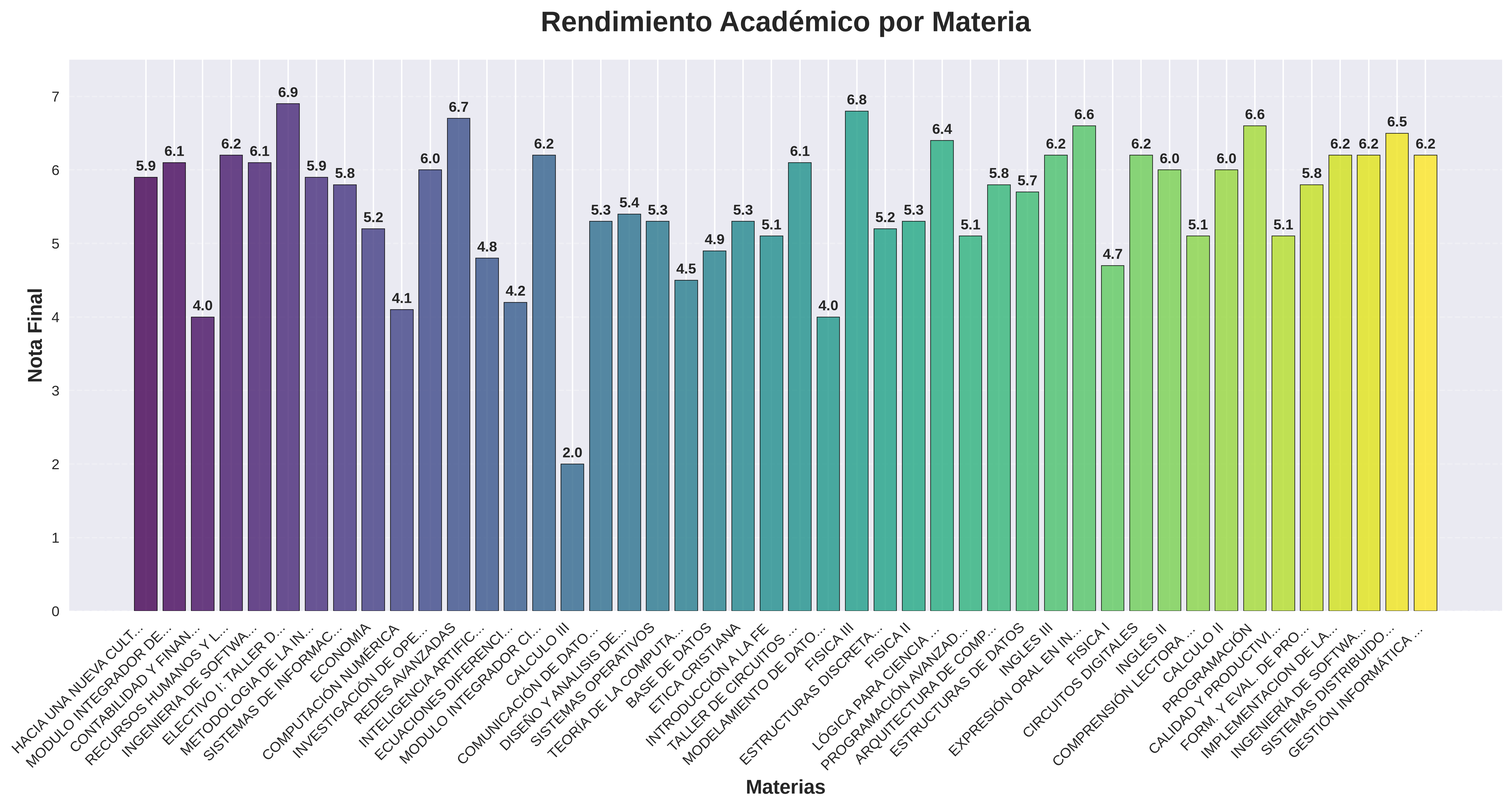
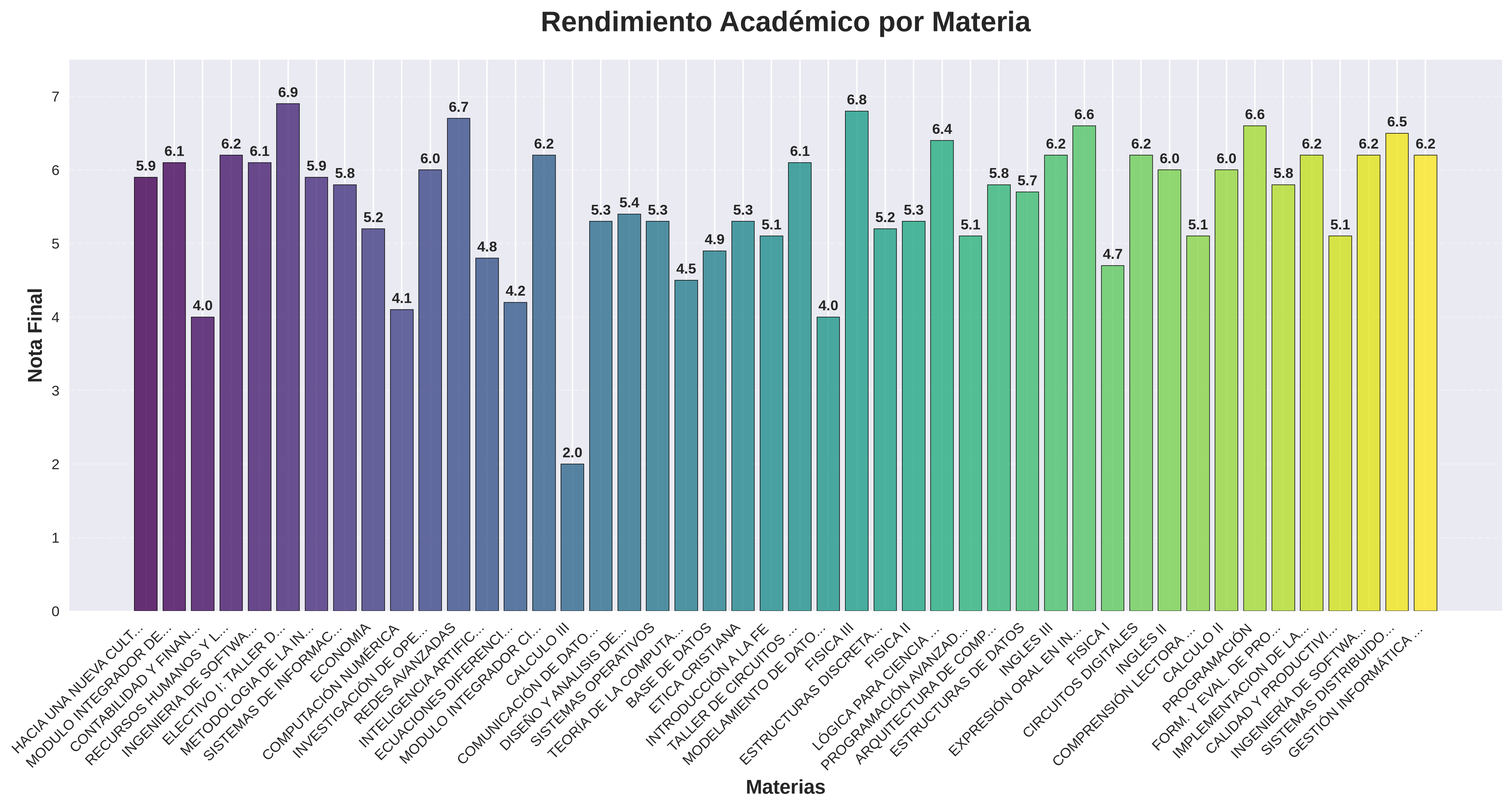
auto: actualizar notas y gráficos

Changed region(s): [[0.747, 0.7806, 0.8714, 0.9367], [0.8403, 0.1873, 0.9026, 0.3122]]

diff --git a/dashboard/ramos_con_detalles.js b/dashboard/ramos_con_detalles.js
@@ -1,2 +1,2 @@
 /* Archivo generado automáticamente por el scraper. No editar a mano. */
-window.ramosData = {"ramos_con_detalles": [{"nombre": "HACIA UNA NUEVA CULTURA EMPRESARIAL", "nota_final": 5.9, "id_curso": "01005356", "componentes": [{"nombre": "Parcial", "porcentaje": "30%", "nota": 6.0}, {"nombre": "Parcial", "porcentaje": "30%", "nota": 7.0}, {"nombre": "Parcial", "porcentaje": "40%", "nota": 5.0}], "semestre": "Semestre 2 (Pre) 2025"}, {"nombre": "MODULO INTEGRADOR DE LICENCIATURA (PRACT", "nota_final": 6.1, "id_curso": "01003110", "componentes": [{"nombre": "Parcial", "porcentaje": "30%", "nota": 5.8}, {"nombre": "Parcial", "porcentaje": "30%", "nota": 6.4}, {"nombre": "Parcial", "porcentaje": "40%", "nota": 6.2}], "semestre": "Semestre 2 (Pre) 2025"}, {"nombre": "CONTABILIDAD Y FINANZAS", "nota_final": 4.0, "id_curso": "01003111", "componentes": [{"nombre": "Parcial", "porcentaje": "20%", "nota": 4.0}, {"nombre": "Parcial", "porcentaje": "20%", "nota": 5.9}, {"nombre": "Parcial", "porcentaje": "30%", "nota": 2.5}, {"nombre": "Parcial", "porcentaje": "30%", "nota": 4.1}], "semestre": "Semestre 2 (Pre) 2025"}, {"nombre": "RECURSOS HUMANOS Y LEGISLACIÓN", "nota_final": 6.2, "id_curso": "01003120", "componentes": [{"nombre": "Parcial", "porcentaje": "20%", "nota": 5.4}, {"nombre": "Parcial", "porcentaje": "25%", "nota": 6.5}, {"nombre": "Parcial", "porcentaje": "25%", "nota": 6.0}, {"nombre": "Parcial", "porcentaje": "30%", "nota": 6.6}], "semestre": "Semestre 2 (Pre) 2025"}, {"nombre": "INGENIERIA DE SOFTWARE I", "nota_final": 6.1, "id_curso": "01003113", "componentes": [{"nombre": "Parcial", "porcentaje": "10%", "nota": 6.3}, {"nombre": "Parcial", "porcentaje": "10%", "nota": 6.2}, {"nombre": "Parcial", "porcentaje": "20%", "nota": 7.0}, {"nombre": "Parcial", "porcentaje": "30%", "nota": 5.3}, {"nombre": "Parcial", "porcentaje": "30%", "nota": 6.2}], "semestre": "Semestre 2 (Pre) 2025"}, {"nombre": "ELECTIVO I: TALLER DE UI Y UX", "nota_final": 6.9, "id_curso": "01011131", "componentes": [{"nombre": "Parcial", "porcentaje": "20%", "nota": 7.0}, {"nombre": "Parcial", "porcentaje": "40%", "nota": 6.9}, {"nombre": "Parcial", "porcentaje": "40%", "nota": 6.8}], "semestre": "Semestre 2 (Pre) 2025"}, {"nombre": "METODOLOGIA DE LA INVESTIGACIÓN", "nota_final": 5.9, "id_curso": "01003105", "componentes": [{"nombre": "Parcial", "porcentaje": "30%", "nota": 5.5}, {"nombre": "Parcial", "porcentaje": "30%", "nota": 6.7}, {"nombre": "Parcial", "porcentaje": "40%", "nota": 5.5}], "semestre": "Semestre 1 (Pre) 2025"}, {"nombre": "SISTEMAS DE INFORMACIÓN", "nota_final": 5.8, "id_curso": "01003108", "componentes": [{"nombre": "Parcial", "porcentaje": "30%", "nota": 6.3}, {"nombre": "Parcial", "porcentaje": "30%", "nota": 7.0}, {"nombre": "Parcial", "porcentaje": "40%", "nota": 4.4}], "semestre": "Semestre 1 (Pre) 2025"}, {"nombre": "ECONOMIA", "nota_final": 5.2, "id_curso": "01003106", "componentes": [{"nombre": "Parcial", "porcentaje": "25%", "nota": 6.6}, {"nombre": "Parcial", "porcentaje": "25%", "nota": 6.0}, {"nombre": "Parcial", "porcentaje": "25%", "nota": 7.0}, {"nombre": "Parcial", "porcentaje": "25%", "nota": 1.0}], "semestre": "Semestre 1 (Pre) 2025"}, {"nombre": "CALCULO I", "nota_final": null, "id_curso": "N/A", "componentes": [], "semestre": "Semestre 1 (Pre) 2021", "error": "Message: \nStacktrace:\n#0 0x55fedd4083da <unknown>\n#1 0x55fedcdea139 <unknown>\n#2 0x55fedce3e884 <unknown>\n#3 0x55fedce3ead1 <unknown>\n#4 0x55fedce89974 <unknown>\n#5 0x55fedce86b5c <unknown>\n#6 0x55fedce31e4f <unknown>\n#7 0x55fedce32c31 <unknown>\n#8 0x55fedd3ce9f7 <unknown>\n#9 0x55fedd3cd203 <unknown>\n#10 0x55fedd3b7f16 <unknown>\n#11 0x55fedd3cdd9a <unknown>\n#12 0x55fedd39feb0 <unknown>\n#13 0x55fedd3f4d58 <unknown>\n#14 0x55fedd3f4ef5 <unknown>\n#15 0x55fedd406f5e <unknown>\n#16 0x7fd13129caa4 <unknown>\n#17 0x7fd131329c6c <unknown>\n"}, {"nombre": "COMPUTACIÓN NUMÉRICA", "nota_final": 4.1, "id_curso": "01003100", "componentes": [{"nombre": "Parcial", "porcentaje": "15%", "nota": 6.5}, {"nombre": "Parcial", "porcentaje": "15%", "nota": 7.0}, {"nombre": "Parcial", "porcentaje": "20%", "nota": 6.8}, {"nombre": "Parcial", "porcentaje": "20%", "nota": 2.0}, {"nombre": "Parcial", "porcentaje": "30%", "nota": 1.0}], "semestre": "Semestre 2 (Pre) 2024"}, {"nombre": "INVESTIGACIÓN DE OPERACIONES", "nota_final": 6.0, "id_curso": "01003101", "componentes": [{"nombre": "Parcial", "porcentaje": "15%", "nota": 7.0}, {"nombre": "Parcial", "porcentaje": "15%", "nota": 5.3}, {"nombre": "Parcial", "porcentaje": "20%", "nota": 5.8}, {"nombre": "Parcial", "porcentaje": "20%", "nota": 6.9}, {"nombre": "Parcial", "porcentaje": "30%", "nota": 5.5}], "semestre": "Semestre 2 (Pre) 2024"}, {"nombre": "REDES AVANZADAS", "nota_final": 6.7, "id_curso": "01003114", "componentes": [{"nombre": "Parcial", "porcentaje": "45%", "nota": 6.7}, {"nombre": "Parcial", "porcentaje": "55%", "nota": 6.7}], "semestre": "Semestre 2 (Pre) 2024"}, {"nombre": "INTELIGENCIA ARTIFICIAL", "nota_final": 4.8, "id_curso": "01003112", "componentes": [{"nombre": "Parcial", "porcentaje": "10%", "nota": 5.9}, {"nombre": "Parcial", "porcentaje": "10%", "nota": 7.0}, {"nombre": "Parcial", "porcentaje": "20%", "nota": 5.3}, {"nombre": "Parcial", "porcentaje": "30%", "nota": 4.0}, {"nombre": "Parcial", "porcentaje": "30%", "nota": 4.0}], "semestre": "Semestre 2 (Pre) 2024"}, {"nombre": "ECUACIONES DIFERENCIALES", "nota_final": 4.2, "id_curso": "01003090", "componentes": [{"nombre": "Parcial", "porcentaje": "15%", "nota": 4.0}, {"nombre": "Parcial", "porcentaje": "15%", "nota": 5.0}, {"nombre": "Parcial", "porcentaje": "20%", "nota": 3.7}, {"nombre": "Parcial", "porcentaje": "20%", "nota": 4.3}, {"nombre": "Parcial", "porcentaje": "30%", "nota": 4.2}], "semestre": "Semestre 2 (Pre) 2024"}, {"nombre": "MODULO INTEGRADOR CIENCIAS BÁSICAS", "nota_final": 6.2, "id_curso": "01003094", "componentes": [{"nombre": "Parcial", "porcentaje": "40%", "nota": 6.1}, {"nombre": "Parcial", "porcentaje": "60%", "nota": 6.2}], "semestre": "Semestre 2 (Pre) 2024"}, {"nombre": "CALCULO III", "nota_final": 2.0, "id_curso": "01003085", "componentes": [{"nombre": "Parcial", "porcentaje": "20%", "nota": 2.2}, {"nombre": "Parcial", "porcentaje": "25%", "nota": 2.4}, {"nombre": "Parcial", "porcentaje": "25%", "nota": 2.2}, {"nombre": "Parcial", "porcentaje": "30%", "nota": 1.3}], "semestre": "Semestre 1 (Pre) 2023"}, {"nombre": "COMUNICACIÓN DE DATOS Y REDES", "nota_final": 5.3, "id_curso": "01003109", "componentes": [{"nombre": "Parcial", "porcentaje": "15%", "nota": 5.3}, {"nombre": "Parcial", "porcentaje": "15%", "nota": 5.3}, {"nombre": "Parcial", "porcentaje": "20%", "nota": 5.3}, {"nombre": "Parcial", "porcentaje": "20%", "nota": 5.3}, {"nombre": "Parcial", "porcentaje": "30%", "nota": 5.3}], "semestre": "Semestre 1 (Pre) 2024"}, {"nombre": "DISEÑO Y ANALISIS DE ALGORITMOS", "nota_final": 5.4, "id_curso": "01003107", "componentes": [{"nombre": "Parcial", "porcentaje": "30%", "nota": 6.0}, {"nombre": "Parcial", "porcentaje": "70%", "nota": 5.2}], "semestre": "Semestre 1 (Pre) 2024"}, {"nombre": "SISTEMAS OPERATIVOS", "nota_final": 5.3, "id_curso": "01003104", "componentes": [{"nombre": "Parcial", "porcentaje": "25%", "nota": 5.5}, {"nombre": "Parcial", "porcentaje": "35%", "nota": 6.1}, {"nombre": "Parcial", "porcentaje": "40%", "nota": 4.4}], "semestre": "Semestre 2 (Pre) 2023"}, {"nombre": "TEORÍA DE LA COMPUTACION", "nota_final": 4.5, "id_curso": "01003102", "componentes": [{"nombre": "Parcial", "porcentaje": "25%", "nota": 5.9}, {"nombre": "Parcial", "porcentaje": "25%", "nota": 6.7}, {"nombre": "Parcial", "porcentaje": "25%", "nota": 4.2}, {"nombre": "Parcial", "porcentaje": "25%", "nota": 1.0}], "semestre": "Semestre 2 (Pre) 2023"}, {"nombre": "BASE DE DATOS", "nota_final": 4.9, "id_curso": "01003103", "componentes": [{"nombre": "Parcial", "porcentaje": "30%", "nota": 3.6}, {"nombre": "Parcial", "porcentaje": "30%", "nota": 5.7}, {"nombre": "Parcial", "porcentaje": "40%", "nota": 5.3}], "semestre": "Semestre 2 (Pre) 2023"}, {"nombre": "ETICA CRISTIANA", "nota_final": 5.3, "id_curso": "01005880", "componentes": [{"nombre": "Parcial", "porcentaje": "30%", "nota": 5.0}, {"nombre": "Parcial", "porcentaje": "30%", "nota": 6.5}, {"nombre": "Parcial", "porcentaje": "40%", "nota": 4.5}], "semestre": "Semestre 2 (Pre) 2023"}, {"nombre": "INTRODUCCIÓN A LA FE", "nota_final": 5.1, "id_curso": "01005831", "componentes": [{"nombre": "Parcial", "porcentaje": "20%", "nota": 6.8}, {"nombre": "Parcial", "porcentaje": "25%", "nota": 6.6}, {"nombre": "Parcial", "porcentaje": "25%", "nota": 1.0}, {"nombre": "Parcial", "porcentaje": "30%", "nota": 6.0}], "semestre": "Semestre 1 (Pre) 2023"}, {"nombre": "TALLER DE CIRCUITOS DIGITALES", "nota_final": 6.1, "id_curso": "01003099", "componentes": [{"nombre": "Parcial", "porcentaje": "20%", "nota": 6.0}, {"nombre": "Parcial", "porcentaje": "20%", "nota": 6.6}, {"nombre": "Parcial", "porcentaje": "20%", "nota": 6.0}, {"nombre": "Parcial", "porcentaje": "40%", "nota": 6.0}], "semestre": "Semestre 1 (Pre) 2023"}, {"nombre": "MODELAMIENTO DE DATOS", "nota_final": 4.0, "id_curso": "01003098", "componentes": [{"nombre": "Parcial", "porcentaje": "20%", "nota": 3.8}, {"nombre": "Parcial", "porcentaje": "40%", "nota": 5.5}, {"nombre": "Parcial", "porcentaje": "40%", "nota": 2.7}], "semestre": "Semestre 1 (Pre) 2023"}, {"nombre": "FISICA III", "nota_final": 6.8, "id_curso": "01003095", "componentes": [{"nombre": "Parcial", "porcentaje": "20%", "nota": 6.5}, {"nombre": "Parcial", "porcentaje": "20%", "nota": 7.0}, {"nombre": "Parcial", "porcentaje": "30%", "nota": 6.8}, {"nombre": "Parcial", "porcentaje": "30%", "nota": 6.8}], "semestre": "Semestre 1 (Pre) 2023"}, {"nombre": "ESTRUCTURAS DISCRETAS", "nota_final": 5.2, "id_curso": "01003097", "componentes": [{"nombre": "Parcial", "porcentaje": "15%", "nota": 4.8}, {"nombre": "Parcial", "porcentaje": "15%", "nota": 4.8}, {"nombre": "Parcial", "porcentaje": "20%", "nota": 4.8}, {"nombre": "Parcial", "porcentaje": "20%", "nota": 5.8}, {"nombre": "Parcial", "porcentaje": "30%", "nota": 5.4}], "semestre": "Semestre 1 (Pre) 2023"}, {"nombre": "FISICA II", "nota_final": 5.3, "id_curso": "01003089", "componentes": [{"nombre": "Parcial", "porcentaje": "30%", "nota": 5.3}, {"nombre": "Parcial", "porcentaje": "35%", "nota": 4.1}, {"nombre": "Parcial", "porcentaje": "35%", "nota": 6.4}], "semestre": "Semestre 2 (Pre) 2022"}, {"nombre": "LÓGICA PARA CIENCIA DE LA COMPUTACIÓN", "nota_final": 6.4, "id_curso": "01003092", "componentes": [{"nombre": "Parcial", "porcentaje": "30%", "nota": 5.6}, {"nombre": "Parcial", "porcentaje": "35%", "nota": 7.0}, {"nombre": "Parcial", "porcentaje": "35%", "nota": 6.6}], "semestre": "Semestre 2 (Pre) 2022"}, {"nombre": "PROGRAMACIÓN AVANZADA", "nota_final": 5.1, "id_curso": "01003091", "componentes": [{"nombre": "Parcial", "porcentaje": "20%", "nota": 4.0}, {"nombre": "Parcial", "porcentaje": "20%", "nota": 7.0}, {"nombre": "Parcial", "porcentaje": "30%", "nota": 4.6}, {"nombre": "Parcial", "porcentaje": "30%", "nota": 5.1}], "semestre": "Semestre 2 (Pre) 2022"}, {"nombre": "ARQUITECTURA DE COMPUTADORES", "nota_final": 5.8, "id_curso": "01003093", "componentes": [{"nombre": "Parcial", "porcentaje": "15%", "nota": 2.9}, {"nombre": "Parcial", "porcentaje": "20%", "nota": 7.0}, {"nombre": "Parcial", "porcentaje": "20%", "nota": 7.0}, {"nombre": "Parcial", "porcentaje": "20%", "nota": 5.9}, {"nombre": "Parcial", "porcentaje": "25%", "nota": 5.7}], "semestre": "Semestre 2 (Pre) 2022"}, {"nombre": "ALGEBRA II", "nota_final": null, "id_curso": "01003080", "componentes": [{"nombre": "Parcial", "porcentaje": "15%", "nota": null}, {"nombre": "Parcial", "porcentaje": "15%", "nota": null}, {"nombre": "Parcial", "porcentaje": "20%", "nota": null}, {"nombre": "Parcial", "porcentaje": "20%", "nota": null}, {"nombre": "Parcial", "porcentaje": "30%", "nota": null}], "semestre": "Semestre 2 (Pre) 2021"}, {"nombre": "ESTRUCTURAS DE DATOS", "nota_final": 5.7, "id_curso": "01003086", "componentes": [{"nombre": "Parcial", "porcentaje": "20%", "nota": 3.8}, {"nombre": "Parcial", "porcentaje": "40%", "nota": 6.5}, {"nombre": "Parcial", "porcentaje": "40%", "nota": 5.8}], "semestre": "Semestre 1 (Pre) 2022"}, {"nombre": "INGLES III", "nota_final": 6.2, "id_curso": "01005809", "componentes": [{"nombre": "Parcial", "porcentaje": "50%", "nota": 6.7}, {"nombre": "Parcial", "porcentaje": "50%", "nota": 5.6}], "semestre": "Semestre 1 (Pre) 2022"}, {"nombre": "EXPRESIÓN ORAL EN INGENIERIA", "nota_final": 6.6, "id_curso": "01003087", "componentes": [{"nombre": "Parcial", "porcentaje": "25%", "nota": 7.0}, {"nombre": "Parcial", "porcentaje": "25%", "nota": 7.0}, {"nombre": "Parcial", "porcentaje": "25%", "nota": 5.5}, {"nombre": "Parcial", "porcentaje": "25%", "nota": 6.8}], "semestre": "Semestre 1 (Pre) 2022"}, {"nombre": "FISICA I", "nota_final": 4.7, "id_curso": "01003084", "componentes": [{"nombre": "Parcial", "porcentaje": "15%", "nota": 6.2}, {"nombre": "Parcial", "porcentaje": "15%", "nota": 6.3}, {"nombre": "Parcial", "porcentaje": "20%", "nota": 1.3}, {"nombre": "Parcial", "porcentaje": "20%", "nota": 6.0}, {"nombre": "Parcial", "porcentaje": "30%", "nota": 4.6}], "semestre": "Semestre 1 (Pre) 2022"}, {"nombre": "CIRCUITOS DIGITALES", "nota_final": 6.2, "id_curso": "01003088", "componentes": [{"nombre": "Parcial", "porcentaje": "25%", "nota": 5.3}, {"nombre": "Parcial", "porcentaje": "25%", "nota": 7.0}, {"nombre": "Parcial", "porcentaje": "25%", "nota": 6.3}, {"nombre": "Parcial", "porcentaje": "25%", "nota": 6.2}], "semestre": "Semestre 1 (Pre) 2022"}, {"nombre": "INGLÉS II", "nota_final": 6.0, "id_curso": "01005759", "componentes": [{"nombre": "Parcial", "porcentaje": "50%", "nota": 6.0}, {"nombre": "Parcial", "porcentaje": "50%", "nota": 6.0}], "semestre": "Semestre 2 (Pre) 2021"}, {"nombre": "COMPRENSIÓN LECTORA Y PROD. DE TEXTOS", "nota_final": 5.1, "id_curso": "01003083", "componentes": [{"nombre": "Parcial", "porcentaje": "25%", "nota": 5.3}, {"nombre": "Parcial", "porcentaje": "25%", "nota": 5.5}, {"nombre": "Parcial", "porcentaje": "25%", "nota": 3.0}, {"nombre": "Parcial", "porcentaje": "25%", "nota": 6.5}], "semestre": "Semestre 2 (Pre) 2021"}, {"nombre": "CALCULO II", "nota_final": 6.0, "id_curso": "01003081", "componentes": [{"nombre": "Parcial", "porcentaje": "20%", "nota": 6.6}, {"nombre": "Parcial", "porcentaje": "20%", "nota": 5.5}, {"nombre": "Parcial", "porcentaje": "30%", "nota": 5.9}, {"nombre": "Parcial", "porcentaje": "30%", "nota": 6.0}], "semestre": "Semestre 2 (Pre) 2021"}, {"nombre": "PROGRAMACIÓN", "nota_final": 6.6, "id_curso": "01003082", "componentes": [{"nombre": "Parcial", "porcentaje": "20%", "nota": 7.0}, {"nombre": "Parcial", "porcentaje": "20%", "nota": 7.0}, {"nombre": "Parcial", "porcentaje": "20%", "nota": 5.8}, {"nombre": "Parcial", "porcentaje": "40%", "nota": 6.5}], "semestre": "Semestre 2 (Pre) 2021"}, {"nombre": "CALIDAD Y PRODUCTIVIDAD DE SOFTWARE", "nota_final": 5.1, "id_curso": "01003117", "componentes": [{"nombre": "Parcial", "porcentaje": "20%", "nota": 5.0}, {"nombre": "Parcial", "porcentaje": "25%", "nota": 3.3}, {"nombre": "Parcial", "porcentaje": "25%", "nota": 5.6}, {"nombre": "Parcial", "porcentaje": "30%", "nota": 6.1}], "semestre": "Semestre 1 (Pre) 2026"}, {"nombre": "FORM. Y EVAL. DE PROYECTOS INFORMÁTICOS", "nota_final": 5.8, "id_curso": "01003115", "componentes": [{"nombre": "Parcial", "porcentaje": "25%", "nota": 3.6}, {"nombre": "Parcial", "porcentaje": "35%", "nota": 6.7}, {"nombre": "Parcial", "porcentaje": "40%", "nota": 6.3}], "semestre": "Semestre 1 (Pre) 2026"}, {"nombre": "IMPLEMENTACION DE LA R.S.E. Y NUEVOS DES", "nota_final": 6.2, "id_curso": "01005358", "componentes": [{"nombre": "Parcial", "porcentaje": "30%", "nota": 7.0}, {"nombre": "Parcial", "porcentaje": "30%", "nota": 5.2}, {"nombre": "Parcial", "porcentaje": "40%", "nota": 6.4}], "semestre": "Semestre 1 (Pre) 2026"}, {"nombre": "INGENIERÍA DE SOFTWARE II", "nota_final": 6.2, "id_curso": "01003118", "componentes": [{"nombre": "Parcial", "porcentaje": "20%", "nota": 6.5}, {"nombre": "Parcial", "porcentaje": "20%", "nota": 6.3}, {"nombre": "Parcial", "porcentaje": "30%", "nota": 6.0}, {"nombre": "Parcial", "porcentaje": "30%", "nota": 6.2}], "semestre": "Semestre 1 (Pre) 2026"}, {"nombre": "SISTEMAS DISTRIBUIDOS", "nota_final": 6.5, "id_curso": "01003119", "componentes": [{"nombre": "Parcial", "porcentaje": "30%", "nota": 5.2}, {"nombre": "Parcial", "porcentaje": "30%", "nota": 7.0}, {"nombre": "Parcial", "porcentaje": "40%", "nota": 7.0}], "semestre": "Semestre 1 (Pre) 2026"}, {"nombre": "GESTIÓN INFORMÁTICA I", "nota_final": 6.2, "id_curso": "01003116", "componentes": [{"nombre": "Parcial", "porcentaje": "20%", "nota": 6.8}, {"nombre": "Parcial", "porcentaje": "20%", "nota": 5.2}, {"nombre": "Parcial", "porcentaje": "30%", "nota": 5.8}, {"nombre": "Parcial", "porcentaje": "30%", "nota": 7.0}], "semestre": "Semestre 1 (Pre) 2026"}]};
+window.ramosData = {"ramos_con_detalles": [{"nombre": "HACIA UNA NUEVA CULTURA EMPRESARIAL", "nota_final": 5.9, "id_curso": "01005356", "componentes": [{"nombre": "Parcial", "porcentaje": "30%", "nota": 6.0}, {"nombre": "Parcial", "porcentaje": "30%", "nota": 7.0}, {"nombre": "Parcial", "porcentaje": "40%", "nota": 5.0}], "semestre": "Semestre 2 (Pre) 2025"}, {"nombre": "MODULO INTEGRADOR DE LICENCIATURA (PRACT", "nota_final": 6.1, "id_curso": "01003110", "componentes": [{"nombre": "Parcial", "porcentaje": "30%", "nota": 5.8}, {"nombre": "Parcial", "porcentaje": "30%", "nota": 6.4}, {"nombre": "Parcial", "porcentaje": "40%", "nota": 6.2}], "semestre": "Semestre 2 (Pre) 2025"}, {"nombre": "CONTABILIDAD Y FINANZAS", "nota_final": 4.0, "id_curso": "01003111", "componentes": [{"nombre": "Parcial", "porcentaje": "20%", "nota": 4.0}, {"nombre": "Parcial", "porcentaje": "20%", "nota": 5.9}, {"nombre": "Parcial", "porcentaje": "30%", "nota": 2.5}, {"nombre": "Parcial", "porcentaje": "30%", "nota": 4.1}], "semestre": "Semestre 2 (Pre) 2025"}, {"nombre": "RECURSOS HUMANOS Y LEGISLACIÓN", "nota_final": 6.2, "id_curso": "01003120", "componentes": [{"nombre": "Parcial", "porcentaje": "20%", "nota": 5.4}, {"nombre": "Parcial", "porcentaje": "25%", "nota": 6.5}, {"nombre": "Parcial", "porcentaje": "25%", "nota": 6.0}, {"nombre": "Parcial", "porcentaje": "30%", "nota": 6.6}], "semestre": "Semestre 2 (Pre) 2025"}, {"nombre": "INGENIERIA DE SOFTWARE I", "nota_final": 6.1, "id_curso": "01003113", "componentes": [{"nombre": "Parcial", "porcentaje": "10%", "nota": 6.3}, {"nombre": "Parcial", "porcentaje": "10%", "nota": 6.2}, {"nombre": "Parcial", "porcentaje": "20%", "nota": 7.0}, {"nombre": "Parcial", "porcentaje": "30%", "nota": 5.3}, {"nombre": "Parcial", "porcentaje": "30%", "nota": 6.2}], "semestre": "Semestre 2 (Pre) 2025"}, {"nombre": "ELECTIVO I: TALLER DE UI Y UX", "nota_final": 6.9, "id_curso": "01011131", "componentes": [{"nombre": "Parcial", "porcentaje": "20%", "nota": 7.0}, {"nombre": "Parcial", "porcentaje": "40%", "nota": 6.9}, {"nombre": "Parcial", "porcentaje": "40%", "nota": 6.8}], "semestre": "Semestre 2 (Pre) 2025"}, {"nombre": "METODOLOGIA DE LA INVESTIGACIÓN", "nota_final": 5.9, "id_curso": "01003105", "componentes": [{"nombre": "Parcial", "porcentaje": "30%", "nota": 5.5}, {"nombre": "Parcial", "porcentaje": "30%", "nota": 6.7}, {"nombre": "Parcial", "porcentaje": "40%", "nota": 5.5}], "semestre": "Semestre 1 (Pre) 2025"}, {"nombre": "SISTEMAS DE INFORMACIÓN", "nota_final": 5.8, "id_curso": "01003108", "componentes": [{"nombre": "Parcial", "porcentaje": "30%", "nota": 6.3}, {"nombre": "Parcial", "porcentaje": "30%", "nota": 7.0}, {"nombre": "Parcial", "porcentaje": "40%", "nota": 4.4}], "semestre": "Semestre 1 (Pre) 2025"}, {"nombre": "ECONOMIA", "nota_final": 5.2, "id_curso": "01003106", "componentes": [{"nombre": "Parcial", "porcentaje": "25%", "nota": 6.6}, {"nombre": "Parcial", "porcentaje": "25%", "nota": 6.0}, {"nombre": "Parcial", "porcentaje": "25%", "nota": 7.0}, {"nombre": "Parcial", "porcentaje": "25%", "nota": 1.0}], "semestre": "Semestre 1 (Pre) 2025"}, {"nombre": "CALCULO I", "nota_final": null, "id_curso": "N/A", "componentes": [], "semestre": "Semestre 1 (Pre) 2021", "error": "Message: \nStacktrace:\n#0 0x55fedd4083da <unknown>\n#1 0x55fedcdea139 <unknown>\n#2 0x55fedce3e884 <unknown>\n#3 0x55fedce3ead1 <unknown>\n#4 0x55fedce89974 <unknown>\n#5 0x55fedce86b5c <unknown>\n#6 0x55fedce31e4f <unknown>\n#7 0x55fedce32c31 <unknown>\n#8 0x55fedd3ce9f7 <unknown>\n#9 0x55fedd3cd203 <unknown>\n#10 0x55fedd3b7f16 <unknown>\n#11 0x55fedd3cdd9a <unknown>\n#12 0x55fedd39feb0 <unknown>\n#13 0x55fedd3f4d58 <unknown>\n#14 0x55fedd3f4ef5 <unknown>\n#15 0x55fedd406f5e <unknown>\n#16 0x7fd13129caa4 <unknown>\n#17 0x7fd131329c6c <unknown>\n"}, {"nombre": "COMPUTACIÓN NUMÉRICA", "nota_final": 4.1, "id_curso": "01003100", "componentes": [{"nombre": "Parcial", "porcentaje": "15%", "nota": 6.5}, {"nombre": "Parcial", "porcentaje": "15%", "nota": 7.0}, {"nombre": "Parcial", "porcentaje": "20%", "nota": 6.8}, {"nombre": "Parcial", "porcentaje": "20%", "nota": 2.0}, {"nombre": "Parcial", "porcentaje": "30%", "nota": 1.0}], "semestre": "Semestre 2 (Pre) 2024"}, {"nombre": "INVESTIGACIÓN DE OPERACIONES", "nota_final": 6.0, "id_curso": "01003101", "componentes": [{"nombre": "Parcial", "porcentaje": "15%", "nota": 7.0}, {"nombre": "Parcial", "porcentaje": "15%", "nota": 5.3}, {"nombre": "Parcial", "porcentaje": "20%", "nota": 5.8}, {"nombre": "Parcial", "porcentaje": "20%", "nota": 6.9}, {"nombre": "Parcial", "porcentaje": "30%", "nota": 5.5}], "semestre": "Semestre 2 (Pre) 2024"}, {"nombre": "REDES AVANZADAS", "nota_final": 6.7, "id_curso": "01003114", "componentes": [{"nombre": "Parcial", "porcentaje": "45%", "nota": 6.7}, {"nombre": "Parcial", "porcentaje": "55%", "nota": 6.7}], "semestre": "Semestre 2 (Pre) 2024"}, {"nombre": "INTELIGENCIA ARTIFICIAL", "nota_final": 4.8, "id_curso": "01003112", "componentes": [{"nombre": "Parcial", "porcentaje": "10%", "nota": 5.9}, {"nombre": "Parcial", "porcentaje": "10%", "nota": 7.0}, {"nombre": "Parcial", "porcentaje": "20%", "nota": 5.3}, {"nombre": "Parcial", "porcentaje": "30%", "nota": 4.0}, {"nombre": "Parcial", "porcentaje": "30%", "nota": 4.0}], "semestre": "Semestre 2 (Pre) 2024"}, {"nombre": "ECUACIONES DIFERENCIALES", "nota_final": 4.2, "id_curso": "01003090", "componentes": [{"nombre": "Parcial", "porcentaje": "15%", "nota": 4.0}, {"nombre": "Parcial", "porcentaje": "15%", "nota": 5.0}, {"nombre": "Parcial", "porcentaje": "20%", "nota": 3.7}, {"nombre": "Parcial", "porcentaje": "20%", "nota": 4.3}, {"nombre": "Parcial", "porcentaje": "30%", "nota": 4.2}], "semestre": "Semestre 2 (Pre) 2024"}, {"nombre": "MODULO INTEGRADOR CIENCIAS BÁSICAS", "nota_final": 6.2, "id_curso": "01003094", "componentes": [{"nombre": "Parcial", "porcentaje": "40%", "nota": 6.1}, {"nombre": "Parcial", "porcentaje": "60%", "nota": 6.2}], "semestre": "Semestre 2 (Pre) 2024"}, {"nombre": "CALCULO III", "nota_final": 2.0, "id_curso": "01003085", "componentes": [{"nombre": "Parcial", "porcentaje": "20%", "nota": 2.2}, {"nombre": "Parcial", "porcentaje": "25%", "nota": 2.4}, {"nombre": "Parcial", "porcentaje": "25%", "nota": 2.2}, {"nombre": "Parcial", "porcentaje": "30%", "nota": 1.3}], "semestre": "Semestre 1 (Pre) 2023"}, {"nombre": "COMUNICACIÓN DE DATOS Y REDES", "nota_final": 5.3, "id_curso": "01003109", "componentes": [{"nombre": "Parcial", "porcentaje": "15%", "nota": 5.3}, {"nombre": "Parcial", "porcentaje": "15%", "nota": 5.3}, {"nombre": "Parcial", "porcentaje": "20%", "nota": 5.3}, {"nombre": "Parcial", "porcentaje": "20%", "nota": 5.3}, {"nombre": "Parcial", "porcentaje": "30%", "nota": 5.3}], "semestre": "Semestre 1 (Pre) 2024"}, {"nombre": "DISEÑO Y ANALISIS DE ALGORITMOS", "nota_final": 5.4, "id_curso": "01003107", "componentes": [{"nombre": "Parcial", "porcentaje": "30%", "nota": 6.0}, {"nombre": "Parcial", "porcentaje": "70%", "nota": 5.2}], "semestre": "Semestre 1 (Pre) 2024"}, {"nombre": "SISTEMAS OPERATIVOS", "nota_final": 5.3, "id_curso": "01003104", "componentes": [{"nombre": "Parcial", "porcentaje": "25%", "nota": 5.5}, {"nombre": "Parcial", "porcentaje": "35%", "nota": 6.1}, {"nombre": "Parcial", "porcentaje": "40%", "nota": 4.4}], "semestre": "Semestre 2 (Pre) 2023"}, {"nombre": "TEORÍA DE LA COMPUTACION", "nota_final": 4.5, "id_curso": "01003102", "componentes": [{"nombre": "Parcial", "porcentaje": "25%", "nota": 5.9}, {"nombre": "Parcial", "porcentaje": "25%", "nota": 6.7}, {"nombre": "Parcial", "porcentaje": "25%", "nota": 4.2}, {"nombre": "Parcial", "porcentaje": "25%", "nota": 1.0}], "semestre": "Semestre 2 (Pre) 2023"}, {"nombre": "BASE DE DATOS", "nota_final": 4.9, "id_curso": "01003103", "componentes": [{"nombre": "Parcial", "porcentaje": "30%", "nota": 3.6}, {"nombre": "Parcial", "porcentaje": "30%", "nota": 5.7}, {"nombre": "Parcial", "porcentaje": "40%", "nota": 5.3}], "semestre": "Semestre 2 (Pre) 2023"}, {"nombre": "ETICA CRISTIANA", "nota_final": 5.3, "id_curso": "01005880", "componentes": [{"nombre": "Parcial", "porcentaje": "30%", "nota": 5.0}, {"nombre": "Parcial", "porcentaje": "30%", "nota": 6.5}, {"nombre": "Parcial", "porcentaje": "40%", "nota": 4.5}], "semestre": "Semestre 2 (Pre) 2023"}, {"nombre": "INTRODUCCIÓN A LA FE", "nota_final": 5.1, "id_curso": "01005831", "componentes": [{"nombre": "Parcial", "porcentaje": "20%", "nota": 6.8}, {"nombre": "Parcial", "porcentaje": "25%", "nota": 6.6}, {"nombre": "Parcial", "porcentaje": "25%", "nota": 1.0}, {"nombre": "Parcial", "porcentaje": "30%", "nota": 6.0}], "semestre": "Semestre 1 (Pre) 2023"}, {"nombre": "TALLER DE CIRCUITOS DIGITALES", "nota_final": 6.1, "id_curso": "01003099", "componentes": [{"nombre": "Parcial", "porcentaje": "20%", "nota": 6.0}, {"nombre": "Parcial", "porcentaje": "20%", "nota": 6.6}, {"nombre": "Parcial", "porcentaje": "20%", "nota": 6.0}, {"nombre": "Parcial", "porcentaje": "40%", "nota": 6.0}], "semestre": "Semestre 1 (Pre) 2023"}, {"nombre": "MODELAMIENTO DE DATOS", "nota_final": 4.0, "id_curso": "01003098", "componentes": [{"nombre": "Parcial", "porcentaje": "20%", "nota": 3.8}, {"nombre": "Parcial", "porcentaje": "40%", "nota": 5.5}, {"nombre": "Parcial", "porcentaje": "40%", "nota": 2.7}], "semestre": "Semestre 1 (Pre) 2023"}, {"nombre": "FISICA III", "nota_final": 6.8, "id_curso": "01003095", "componentes": [{"nombre": "Parcial", "porcentaje": "20%", "nota": 6.5}, {"nombre": "Parcial", "porcentaje": "20%", "nota": 7.0}, {"nombre": "Parcial", "porcentaje": "30%", "nota": 6.8}, {"nombre": "Parcial", "porcentaje": "30%", "nota": 6.8}], "semestre": "Semestre 1 (Pre) 2023"}, {"nombre": "ESTRUCTURAS DISCRETAS", "nota_final": 5.2, "id_curso": "01003097", "componentes": [{"nombre": "Parcial", "porcentaje": "15%", "nota": 4.8}, {"nombre": "Parcial", "porcentaje": "15%", "nota": 4.8}, {"nombre": "Parcial", "porcentaje": "20%", "nota": 4.8}, {"nombre": "Parcial", "porcentaje": "20%", "nota": 5.8}, {"nombre": "Parcial", "porcentaje": "30%", "nota": 5.4}], "semestre": "Semestre 1 (Pre) 2023"}, {"nombre": "FISICA II", "nota_final": 5.3, "id_curso": "01003089", "componentes": [{"nombre": "Parcial", "porcentaje": "30%", "nota": 5.3}, {"nombre": "Parcial", "porcentaje": "35%", "nota": 4.1}, {"nombre": "Parcial", "porcentaje": "35%", "nota": 6.4}], "semestre": "Semestre 2 (Pre) 2022"}, {"nombre": "LÓGICA PARA CIENCIA DE LA COMPUTACIÓN", "nota_final": 6.4, "id_curso": "01003092", "componentes": [{"nombre": "Parcial", "porcentaje": "30%", "nota": 5.6}, {"nombre": "Parcial", "porcentaje": "35%", "nota": 7.0}, {"nombre": "Parcial", "porcentaje": "35%", "nota": 6.6}], "semestre": "Semestre 2 (Pre) 2022"}, {"nombre": "PROGRAMACIÓN AVANZADA", "nota_final": 5.1, "id_curso": "01003091", "componentes": [{"nombre": "Parcial", "porcentaje": "20%", "nota": 4.0}, {"nombre": "Parcial", "porcentaje": "20%", "nota": 7.0}, {"nombre": "Parcial", "porcentaje": "30%", "nota": 4.6}, {"nombre": "Parcial", "porcentaje": "30%", "nota": 5.1}], "semestre": "Semestre 2 (Pre) 2022"}, {"nombre": "ARQUITECTURA DE COMPUTADORES", "nota_final": 5.8, "id_curso": "01003093", "componentes": [{"nombre": "Parcial", "porcentaje": "15%", "nota": 2.9}, {"nombre": "Parcial", "porcentaje": "20%", "nota": 7.0}, {"nombre": "Parcial", "porcentaje": "20%", "nota": 7.0}, {"nombre": "Parcial", "porcentaje": "20%", "nota": 5.9}, {"nombre": "Parcial", "porcentaje": "25%", "nota": 5.7}], "semestre": "Semestre 2 (Pre) 2022"}, {"nombre": "ALGEBRA II", "nota_final": null, "id_curso": "01003080", "componentes": [{"nombre": "Parcial", "porcentaje": "15%", "nota": null}, {"nombre": "Parcial", "porcentaje": "15%", "nota": null}, {"nombre": "Parcial", "porcentaje": "20%", "nota": null}, {"nombre": "Parcial", "porcentaje": "20%", "nota": null}, {"nombre": "Parcial", "porcentaje": "30%", "nota": null}], "semestre": "Semestre 2 (Pre) 2021"}, {"nombre": "ESTRUCTURAS DE DATOS", "nota_final": 5.7, "id_curso": "01003086", "componentes": [{"nombre": "Parcial", "porcentaje": "20%", "nota": 3.8}, {"nombre": "Parcial", "porcentaje": "40%", "nota": 6.5}, {"nombre": "Parcial", "porcentaje": "40%", "nota": 5.8}], "semestre": "Semestre 1 (Pre) 2022"}, {"nombre": "INGLES III", "nota_final": 6.2, "id_curso": "01005809", "componentes": [{"nombre": "Parcial", "porcentaje": "50%", "nota": 6.7}, {"nombre": "Parcial", "porcentaje": "50%", "nota": 5.6}], "semestre": "Semestre 1 (Pre) 2022"}, {"nombre": "EXPRESIÓN ORAL EN INGENIERIA", "nota_final": 6.6, "id_curso": "01003087", "componentes": [{"nombre": "Parcial", "porcentaje": "25%", "nota": 7.0}, {"nombre": "Parcial", "porcentaje": "25%", "nota": 7.0}, {"nombre": "Parcial", "porcentaje": "25%", "nota": 5.5}, {"nombre": "Parcial", "porcentaje": "25%", "nota": 6.8}], "semestre": "Semestre 1 (Pre) 2022"}, {"nombre": "FISICA I", "nota_final": 4.7, "id_curso": "01003084", "componentes": [{"nombre": "Parcial", "porcentaje": "15%", "nota": 6.2}, {"nombre": "Parcial", "porcentaje": "15%", "nota": 6.3}, {"nombre": "Parcial", "porcentaje": "20%", "nota": 1.3}, {"nombre": "Parcial", "porcentaje": "20%", "nota": 6.0}, {"nombre": "Parcial", "porcentaje": "30%", "nota": 4.6}], "semestre": "Semestre 1 (Pre) 2022"}, {"nombre": "CIRCUITOS DIGITALES", "nota_final": 6.2, "id_curso": "01003088", "componentes": [{"nombre": "Parcial", "porcentaje": "25%", "nota": 5.3}, {"nombre": "Parcial", "porcentaje": "25%", "nota": 7.0}, {"nombre": "Parcial", "porcentaje": "25%", "nota": 6.3}, {"nombre": "Parcial", "porcentaje": "25%", "nota": 6.2}], "semestre": "Semestre 1 (Pre) 2022"}, {"nombre": "INGLÉS II", "nota_final": 6.0, "id_curso": "01005759", "componentes": [{"nombre": "Parcial", "porcentaje": "50%", "nota": 6.0}, {"nombre": "Parcial", "porcentaje": "50%", "nota": 6.0}], "semestre": "Semestre 2 (Pre) 2021"}, {"nombre": "COMPRENSIÓN LECTORA Y PROD. DE TEXTOS", "nota_final": 5.1, "id_curso": "01003083", "componentes": [{"nombre": "Parcial", "porcentaje": "25%", "nota": 5.3}, {"nombre": "Parcial", "porcentaje": "25%", "nota": 5.5}, {"nombre": "Parcial", "porcentaje": "25%", "nota": 3.0}, {"nombre": "Parcial", "porcentaje": "25%", "nota": 6.5}], "semestre": "Semestre 2 (Pre) 2021"}, {"nombre": "CALCULO II", "nota_final": 6.0, "id_curso": "01003081", "componentes": [{"nombre": "Parcial", "porcentaje": "20%", "nota": 6.6}, {"nombre": "Parcial", "porcentaje": "20%", "nota": 5.5}, {"nombre": "Parcial", "porcentaje": "30%", "nota": 5.9}, {"nombre": "Parcial", "porcentaje": "30%", "nota": 6.0}], "semestre": "Semestre 2 (Pre) 2021"}, {"nombre": "PROGRAMACIÓN", "nota_final": 6.6, "id_curso": "01003082", "componentes": [{"nombre": "Parcial", "porcentaje": "20%", "nota": 7.0}, {"nombre": "Parcial", "porcentaje": "20%", "nota": 7.0}, {"nombre": "Parcial", "porcentaje": "20%", "nota": 5.8}, {"nombre": "Parcial", "porcentaje": "40%", "nota": 6.5}], "semestre": "Semestre 2 (Pre) 2021"}, {"nombre": "FORM. Y EVAL. DE PROYECTOS INFORMÁTICOS", "nota_final": 5.8, "id_curso": "01003115", "componentes": [{"nombre": "Parcial", "porcentaje": "25%", "nota": 3.6}, {"nombre": "Parcial", "porcentaje": "35%", "nota": 6.7}, {"nombre": "Parcial", "porcentaje": "40%", "nota": 6.3}], "semestre": "Semestre 1 (Pre) 2026"}, {"nombre": "IMPLEMENTACION DE LA R.S.E. Y NUEVOS DES", "nota_final": 6.2, "id_curso": "01005358", "componentes": [{"nombre": "Parcial", "porcentaje": "30%", "nota": 7.0}, {"nombre": "Parcial", "porcentaje": "30%", "nota": 5.2}, {"nombre": "Parcial", "porcentaje": "40%", "nota": 6.4}], "semestre": "Semestre 1 (Pre) 2026"}, {"nombre": "CALIDAD Y PRODUCTIVIDAD DE SOFTWARE", "nota_final": 5.1, "id_curso": "01003117", "componentes": [{"nombre": "Parcial", "porcentaje": "20%", "nota": 5.0}, {"nombre": "Parcial", "porcentaje": "25%", "nota": 3.3}, {"nombre": "Parcial", "porcentaje": "25%", "nota": 5.6}, {"nombre": "Parcial", "porcentaje": "30%", "nota": 6.1}], "semestre": "Semestre 1 (Pre) 2026"}, {"nombre": "INGENIERÍA DE SOFTWARE II", "nota_final": 6.2, "id_curso": "01003118", "componentes": [{"nombre": "Parcial", "porcentaje": "20%", "nota": 6.5}, {"nombre": "Parcial", "porcentaje": "20%", "nota": 6.3}, {"nombre": "Parcial", "porcentaje": "30%", "nota": 6.0}, {"nombre": "Parcial", "porcentaje": "30%", "nota": 6.2}], "semestre": "Semestre 1 (Pre) 2026"}, {"nombre": "SISTEMAS DISTRIBUIDOS", "nota_final": 6.5, "id_curso": "01003119", "componentes": [{"nombre": "Parcial", "porcentaje": "30%", "nota": 5.2}, {"nombre": "Parcial", "porcentaje": "30%", "nota": 7.0}, {"nombre": "Parcial", "porcentaje": "40%", "nota": 7.0}], "semestre": "Semestre 1 (Pre) 2026"}, {"nombre": "GESTIÓN INFORMÁTICA I", "nota_final": 6.2, "id_curso": "01003116", "componentes": [{"nombre": "Parcial", "porcentaje": "20%", "nota": 6.8}, {"nombre": "Parcial", "porcentaje": "20%", "nota": 5.2}, {"nombre": "Parcial", "porcentaje": "30%", "nota": 5.8}, {"nombre": "Parcial", "porcentaje": "30%", "nota": 7.0}], "semestre": "Semestre 1 (Pre) 2026"}]};
